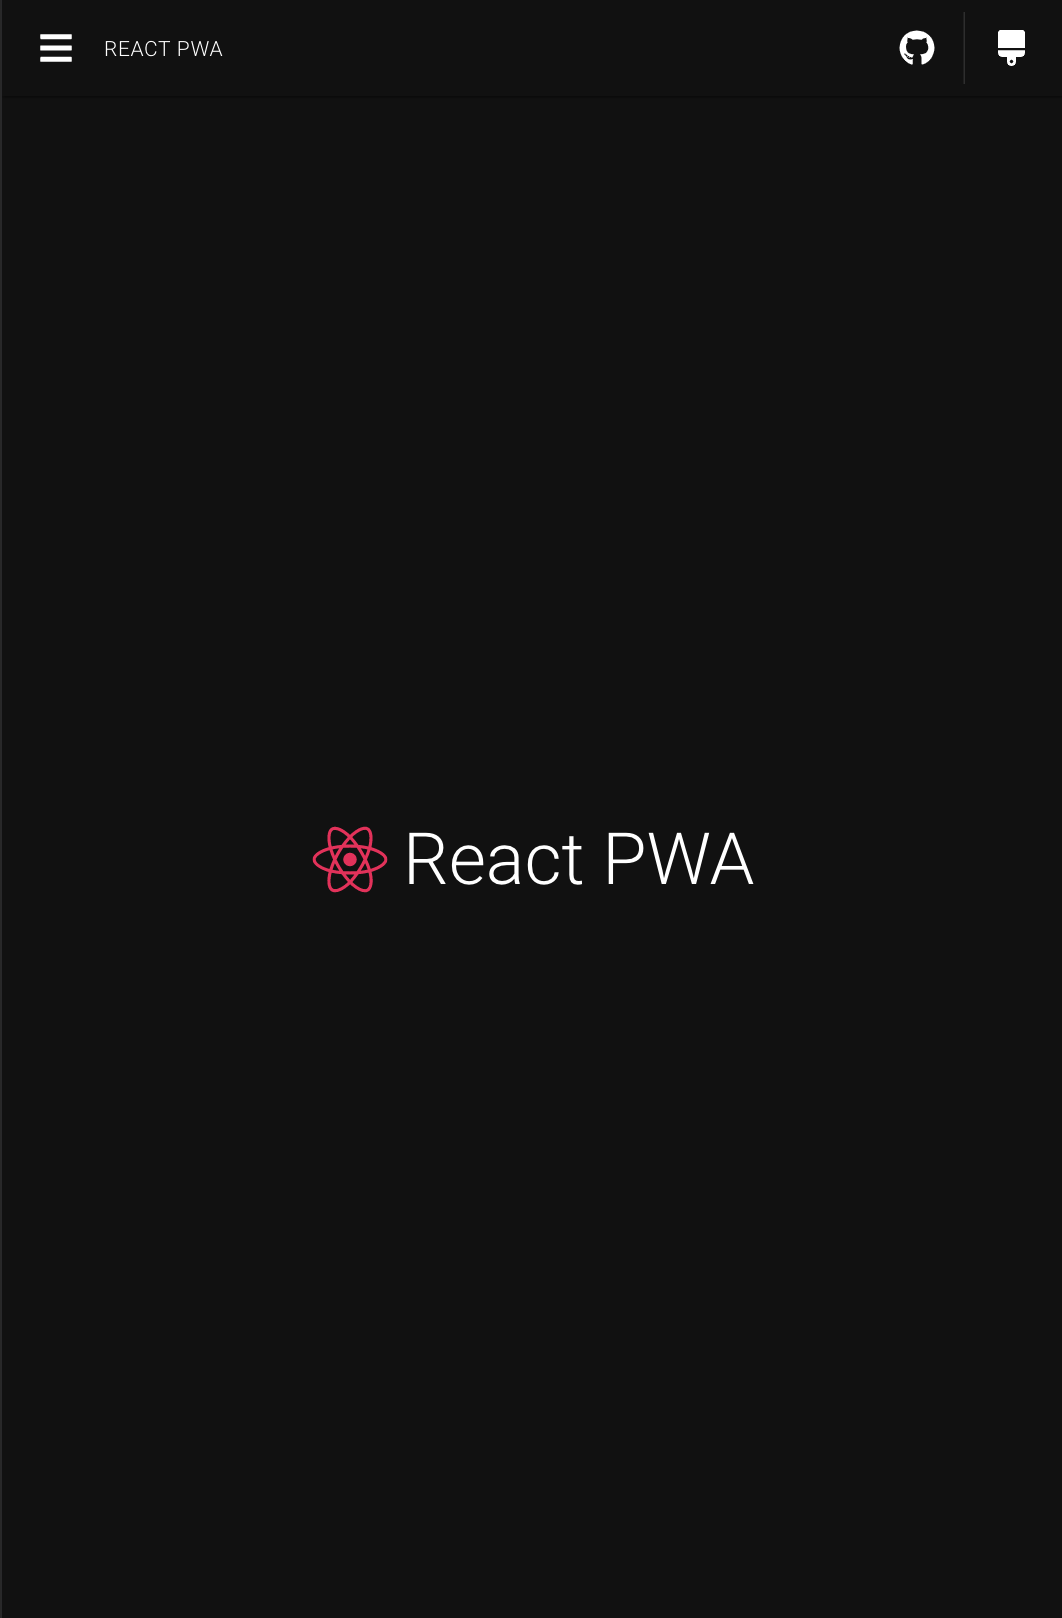
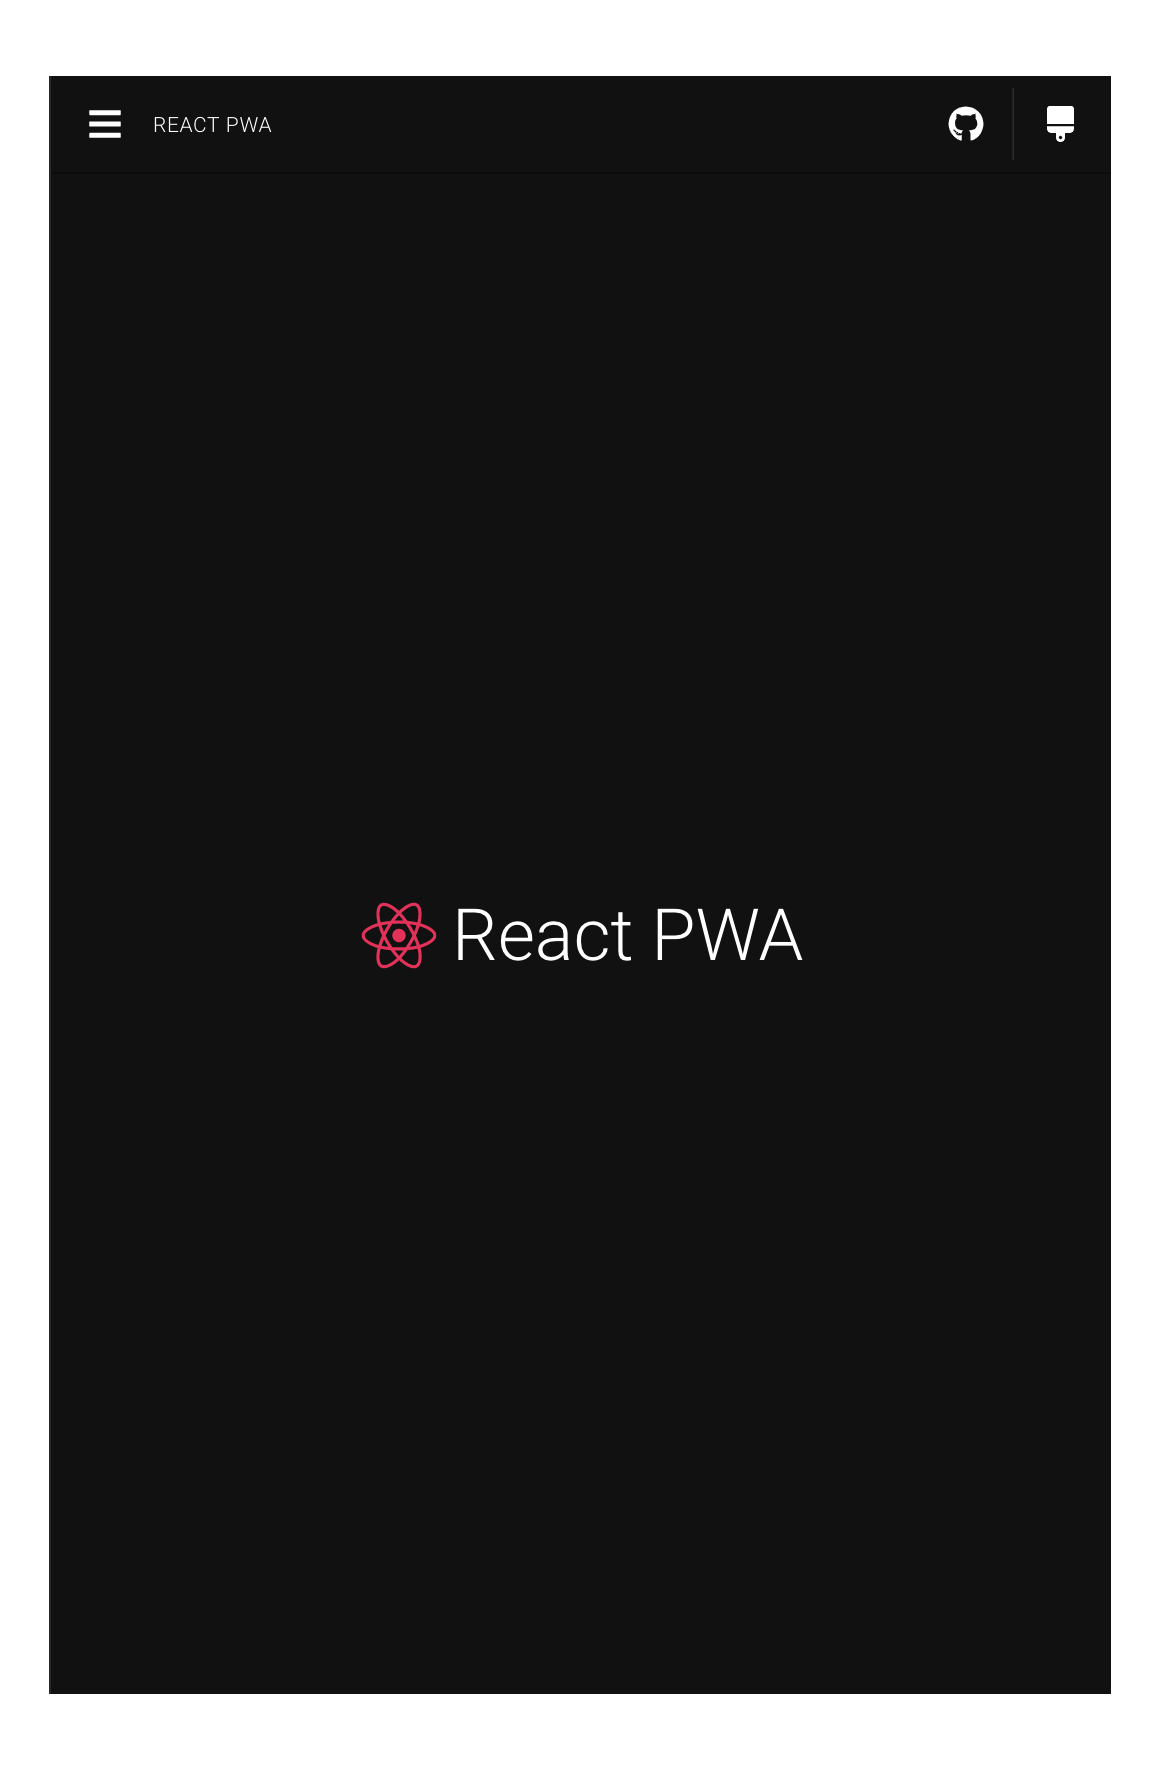
fix demo image sizes

Changed region(s): [[0.0, 0.0, 1.0, 1.0], [0.2797, 0.4944, 0.7147, 0.5562]]

diff --git a/README.md b/README.md
@@ -69,6 +69,6 @@ You can see the implementation of this [here](https://github.com/suren-atoyan/re
 
 ## Demo
 
-<div style="display: flex">
+<div>
  <img src="./public/images/readme/demo-dark.png" width="300" title="Dark demo"> <img src="./public/images/readme/demo-light.png" width="300" title="Light demo">
 </div>
